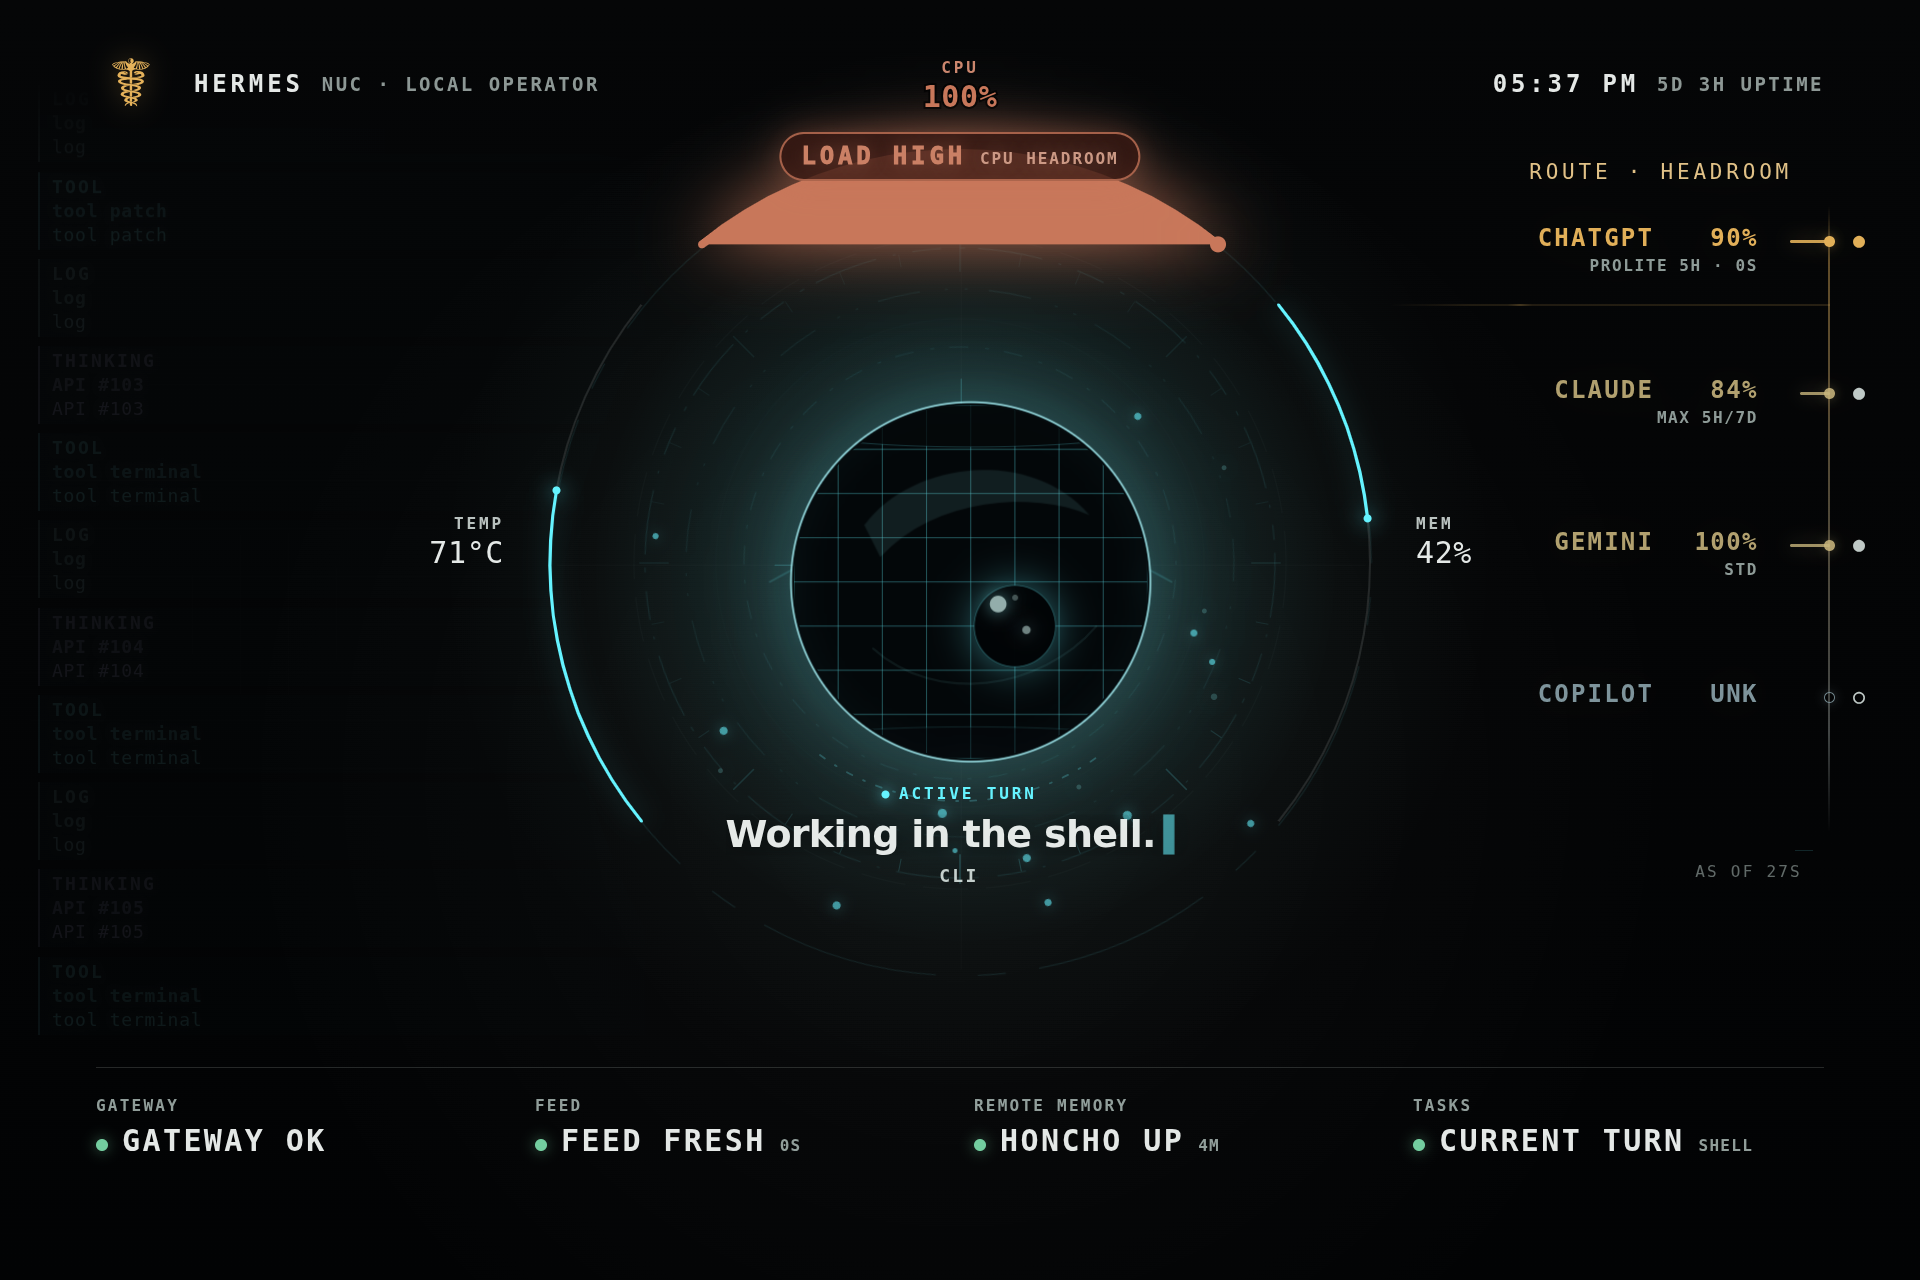
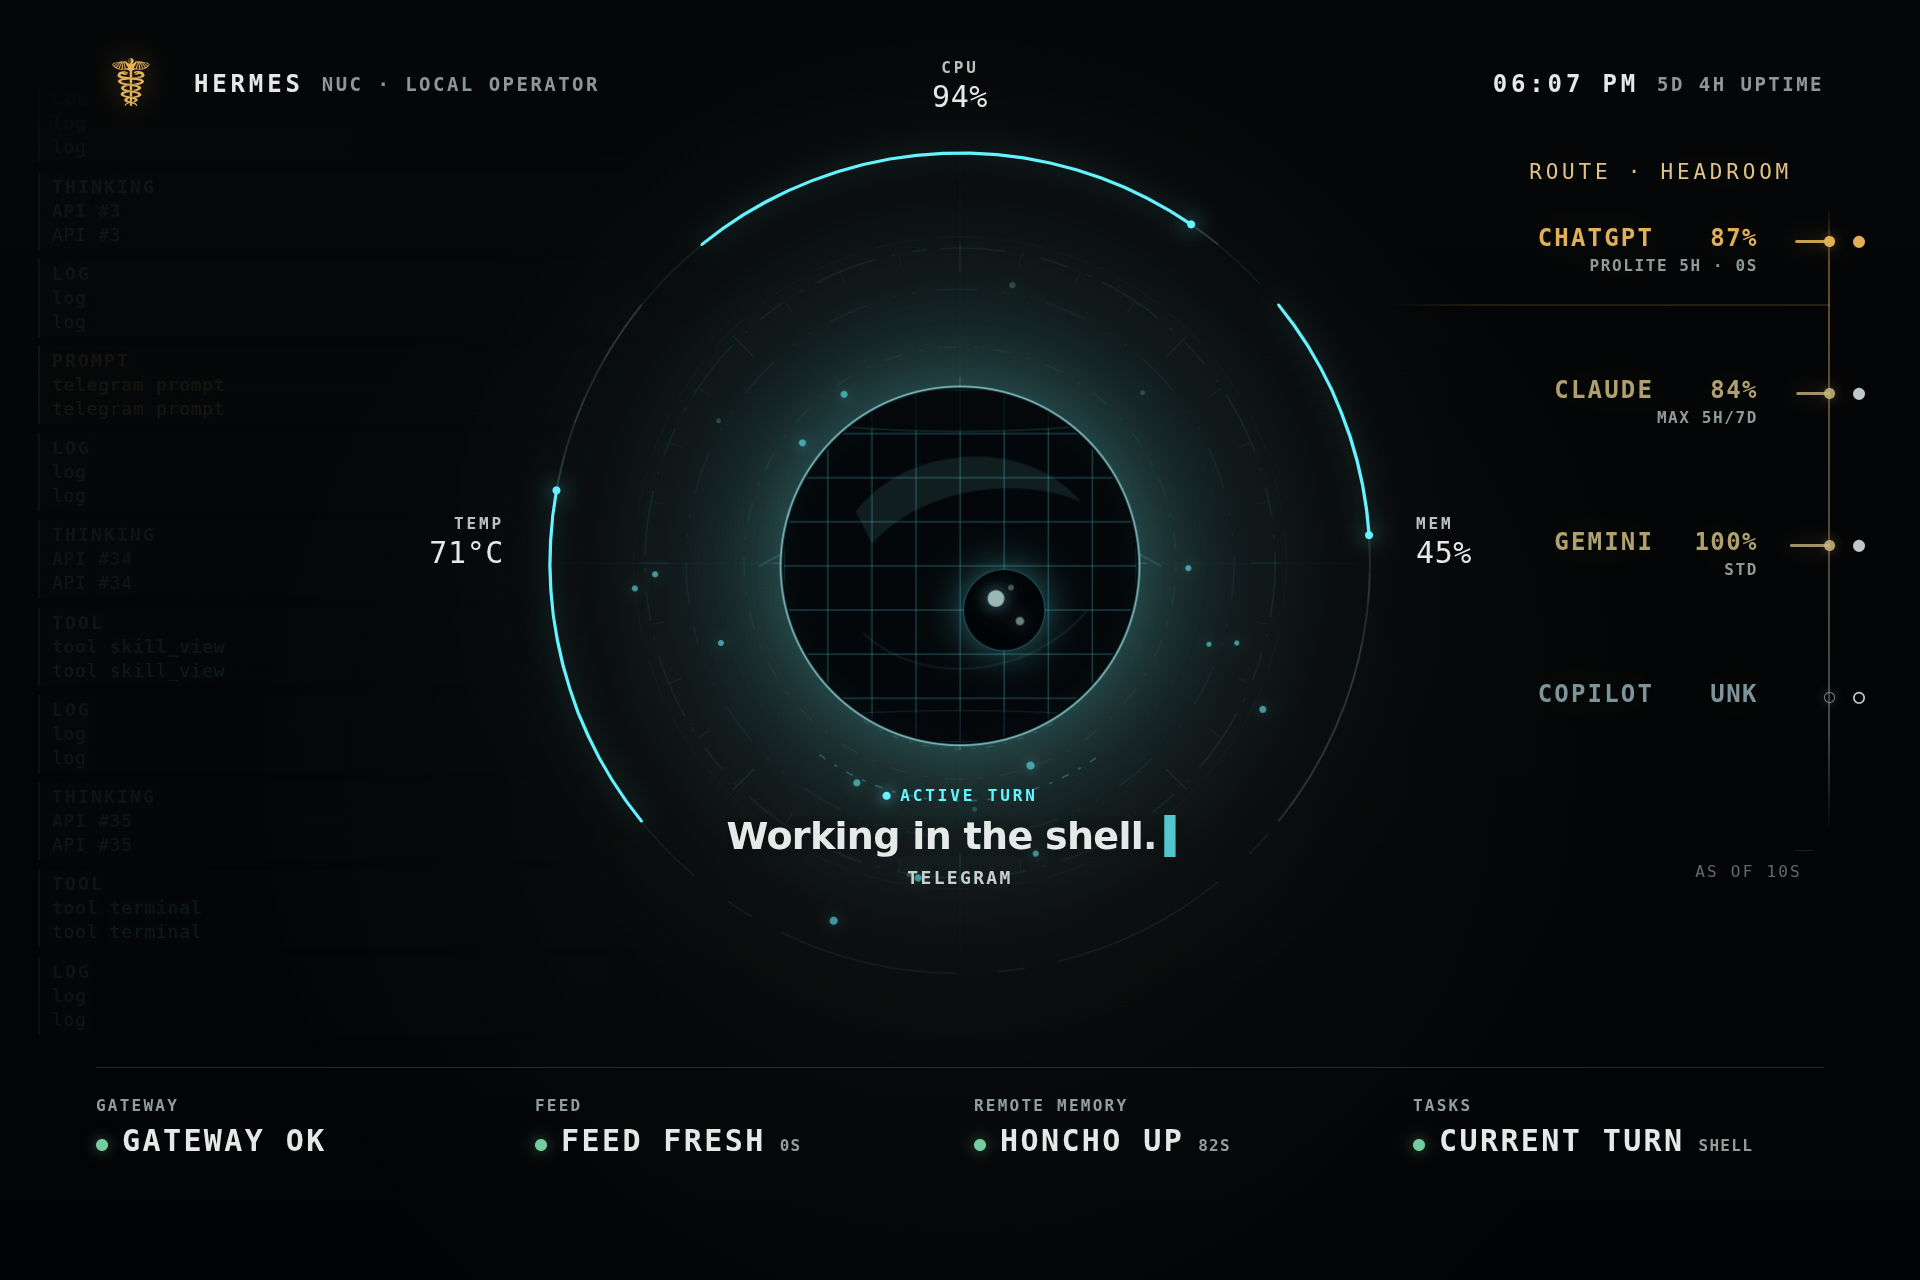
Fix route headroom rail scaling

Changed region(s): [[0.375, 0.2812, 0.625, 0.6875], [0.3438, 0.0625, 0.6562, 0.2188]]

diff --git a/src/mascot/app.js b/src/mascot/app.js
@@ -23,7 +23,7 @@
   const skinOrder = ['retro-robot-core', 'retro-terminal-focus', 'retro-night-watch', 'retro-amber-watch', 'retro-hermes-accent'];
   const liveStatus = { lastGoodAt: null, failures: 0, lastError: '', staleSince: null };
   const avatarEventStatus = { connected: false, accepted: 0, dropped: 0, lastError: '', lastEventAt: null, recent: [] };
-  const DISPLAY_BUILD_ID = 'concept-b-optic-cleanup1';
+  const DISPLAY_BUILD_ID = 'route-headroom-smooth1';
   const CONCEPT_B_BIO_MOTION = Object.freeze({
     // Quiet watch should not read as a metronomic eye twitch. Keep micro-saccades rare
     // and tiny in standby, while preserving more visible eye life for active/search modes.
@@ -1999,8 +1999,7 @@
       const headroom = Number(provider.headroom);
       const knownHeadroom = Number.isFinite(headroom) && !['unknown', 'error', 'disabled'].includes(state);
       const clamped = knownHeadroom ? Math.max(0, Math.min(1, headroom)) : null;
-      const quantized = knownHeadroom ? Math.round(clamped * 4) / 4 : 0;
-      setConceptBStyleProperty(row, '--route-headroom', knownHeadroom ? quantized.toFixed(2) : '0');
+      setConceptBStyleProperty(row, '--route-headroom', knownHeadroom ? clamped.toFixed(3) : '0');
       setConceptBText(entry.label, safeDisplayText(provider.label || 'ROUTE', 8).toUpperCase());
       const unknownRouteCopy = state === 'disabled' ? 'OFF' : state === 'error' ? 'ERR' : 'UNK';
       setConceptBText(entry.value, knownHeadroom ? `${state === 'inferred' ? '~' : ''}${Math.round(clamped * 100)}%` : unknownRouteCopy);

diff --git a/src/character-runtime.html b/src/character-runtime.html
@@ -127,6 +127,6 @@
   <script src="./mascot/touch-fx.js?v=concept-b-optic-cleanup1"></script>
   <script src="./mascot/entertainment.js?v=concept-b-optic-cleanup1"></script>
   <script src="./mascot/watch-sequences.js?v=concept-b-optic-cleanup1"></script>
-  <script src="./mascot/app.js?v=concept-b-optic-cleanup1"></script>
+  <script src="./mascot/app.js?v=route-headroom-smooth1"></script>
 </body>
 </html>
